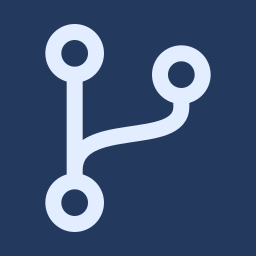
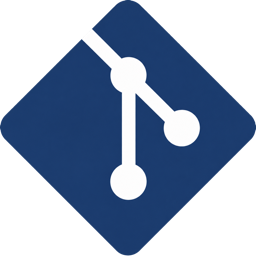
chore: prepare Git Native UI for publication

diff --git a/scripts/package/verify.ts b/scripts/package/verify.ts
@@ -143,18 +143,18 @@ export function verifyReleaseManifest(manifest: unknown): void {
     manifest.repository,
     {
       type: 'git',
-      url: 'https://github.com/andreymyssak/git-native-ui.git',
+      url: 'https://github.com/andreymyssak/vscode-git-native-ui.git',
     },
     'Release repository must identify the intended personal source repository',
   );
   assert.equal(
     manifest.homepage,
-    'https://github.com/andreymyssak/git-native-ui#readme',
+    'https://github.com/andreymyssak/vscode-git-native-ui#readme',
     'Release homepage must link to project documentation',
   );
   assert.equal(
     isRecord(manifest.bugs) ? manifest.bugs.url : undefined,
-    'https://github.com/andreymyssak/git-native-ui/issues',
+    'https://github.com/andreymyssak/vscode-git-native-ui/issues',
     'Release bugs URL must identify the issue tracker',
   );
   assert.ok(

diff --git a/test/vscode/editors.test.ts b/test/vscode/editors.test.ts
@@ -55,7 +55,7 @@ describe('historical changes', () => {
       const id = vscode.Uri.file(fixture.root).toString();
 
       await vscode.extensions
-        .getExtension('local-git-native-ui.git-native-ui')!
+        .getExtension('git-native-ui.git-native-ui')!
         .activate();
       const access = await getGitApi();
       const parent = (await fixture.runGit(['rev-parse', 'HEAD'])).trim();

diff --git a/test/vscode/file-icons.test.ts b/test/vscode/file-icons.test.ts
@@ -23,7 +23,7 @@ describe('installed file icon themes', () => {
     const previousIcon = configuration.inspect('iconTheme')?.globalValue;
     const previousColor = configuration.inspect('colorTheme')?.globalValue;
     const extension = vscode.extensions.getExtension(
-      'local-git-native-ui.git-native-ui',
+      'git-native-ui.git-native-ui',
     );
 
     try {

diff --git a/test/vscode/package.test.ts b/test/vscode/package.test.ts
@@ -12,7 +12,7 @@ import { createFixture } from '../fixtures/repository';
 describe('private package', () => {
   it('registered extension activates on the tested VS Code runtime', async () => {
     const extension = vscode.extensions.getExtension(
-      'local-git-native-ui.git-native-ui',
+      'git-native-ui.git-native-ui',
     );
 
     assert.ok(extension);

diff --git a/scripts/test/installed-actions.ts b/scripts/test/installed-actions.ts
@@ -61,7 +61,7 @@ export async function runInstalledActions({
       engines: { vscode: '^1.140.0' },
       main: './extension.cjs',
       activationEvents: ['onStartupFinished'],
-      extensionDependencies: ['local-git-native-ui.git-native-ui'],
+      extensionDependencies: ['git-native-ui.git-native-ui'],
     }),
   );
   writeFileSync(

diff --git a/test/vscode/activation.test.ts b/test/vscode/activation.test.ts
@@ -23,7 +23,7 @@ describe('native capabilities', () => {
     for (const root of roots)
       await access.api.openRepository(vscode.Uri.file(root.root));
     const extension = vscode.extensions.getExtension(
-      'local-git-native-ui.git-native-ui',
+      'git-native-ui.git-native-ui',
     );
 
     assert.ok(extension);

diff --git a/test/vscode/commit-menu.test.ts b/test/vscode/commit-menu.test.ts
@@ -31,7 +31,7 @@ describe('native squash menu workflow', () => {
         vscode.ConfigurationTarget.Global,
       );
       const extension = vscode.extensions.getExtension(
-        'local-git-native-ui.git-native-ui',
+        'git-native-ui.git-native-ui',
       );
 
       assert.ok(extension);

diff --git a/README.md b/README.md
@@ -2,9 +2,13 @@
 
 [![MIT license](https://img.shields.io/badge/license-MIT-blue.svg)](LICENSE.txt)
 
-Browse branches, commit history, changed files, and worktrees together in VS Code. Git Native UI puts them in a bottom panel, with comparisons opening in VS Code's native diff editors.
+**Finally, a proper Git UI for VS Code.**
 
-Inspired by the Git tool window in JetBrains' [IntelliJ IDEA Community Edition](https://github.com/JetBrains/intellij-community), with VS Code's graph, controls, and themes.
+Git Native UI is a free, focused alternative to [GitLens](https://github.com/gitkraken/vscode-gitlens) for browsing history, managing branches and worktrees, and inspecting changes. It uses familiar VS Code styling, follows your chosen theme, and opens file comparisons in VS Code's native diff editor.
+
+Inspired by the Git tool window in JetBrains' [IntelliJ IDEA Community Edition](https://github.com/JetBrains/intellij-community).
+
+**Completely free and open source. No subscriptions or paid tiers.**
 
 ![Git Native UI in VS Code's Dark Modern theme, showing branches, a commit graph, and changed files](assets/readme/log-dark.png)
 
@@ -28,21 +32,11 @@ The panel follows your VS Code theme. Here it is in Light Modern:
 
 ![Git Native UI in VS Code's Light Modern theme](assets/readme/log-light.png)
 
-## Install
-
-The first public release is in preparation. **Marketplace listing: coming soon.**
-
-<!-- Replace the Marketplace placeholder with the final listing URL after publication.
-Add Marketplace version and install-count badges using the final publisher ID.
-Until then, avoid badges that imply a published release or an install count. -->
-
-For now, [build a VSIX from source](docs/development.md#build-and-run), then run **Extensions: Install from VSIX...** in VS Code.
+## Get started
 
 1. Open a local Git repository in VS Code.
 2. Run **View: Open View...** from the Command Palette and choose **Git Native UI**.
 3. Select a commit, or double-click a branch to browse its history. Browsing a branch keeps your checkout unchanged.
-
-Requires VS Code 1.140.0 or newer, Git, an enabled built-in Git extension, and workspace trust for Git operations.
 
 ## Your repositories stay yours
 
@@ -50,7 +44,7 @@ Git Native UI has no account, cloud backend, or analytics service. Fetch connect
 
 ## Feedback and contributions
 
-[Report a bug or suggest a feature](https://github.com/andreymyssak/git-native-ui/issues). To contribute, see [CONTRIBUTING.md](CONTRIBUTING.md).
+[Report a bug or suggest a feature](https://github.com/andreymyssak/vscode-git-native-ui/issues). To contribute, see [CONTRIBUTING.md](CONTRIBUTING.md).
 
 For security vulnerabilities, follow the private reporting instructions in [SECURITY.md](SECURITY.md).
 

diff --git a/SECURITY.md b/SECURITY.md
@@ -2,9 +2,9 @@
 
 ## Report a vulnerability privately
 
-Open the repository's [security page](https://github.com/andreymyssak/git-native-ui/security) and choose **Advisories → Report a vulnerability** when private reporting is enabled. GitHub sends the report privately to the maintainers.
+Open the repository's [security page](https://github.com/andreymyssak/vscode-git-native-ui/security) and choose **Advisories → Report a vulnerability** when private reporting is enabled. GitHub sends the report privately to the maintainers.
 
-If that button is unavailable, [open an issue](https://github.com/andreymyssak/git-native-ui/issues) asking for a private security contact. Include only that request. Wait for a private channel before sending vulnerability details.
+If that button is unavailable, [open an issue](https://github.com/andreymyssak/vscode-git-native-ui/issues) asking for a private security contact. Include only that request. Wait for a private channel before sending vulnerability details.
 
 Keep exploit details and proposed security fixes out of public issues and pull requests until disclosure is coordinated with the maintainers. Ordinary bugs and feature requests can use public issues and pull requests.
 

diff --git a/THIRD_PARTY_NOTICES.md b/THIRD_PARTY_NOTICES.md
@@ -17,6 +17,12 @@ VSCode Elements is a community project. File theme icons and fonts are supplied 
 
 Both complete license texts are included in `dist/UI_LICENSES.txt`.
 
+## Git logo
+
+The icons in `assets/git-native-ui.svg` and `assets/marketplace-icon.png` are adapted from Git Logo by Jason Long, available from [Git's logo downloads](https://git-scm.com/community/logos), under [Creative Commons Attribution 3.0 Unported](https://creativecommons.org/licenses/by/3.0/).
+
+The Marketplace icon uses a navy diamond and white branch symbol. The panel icon uses the current VS Code theme color. Git and the Git logo are trademarks of Software Freedom Conservancy, Inc.
+
 ## Copied VS Code code
 
 The portable Git graph, graph test assertions, and public Git API structural declarations derive from [Microsoft Visual Studio Code](https://github.com/microsoft/vscode) under the MIT license below. Source paths, hashes, adaptations, and adopted revisions are recorded in [the source manifest](upstream/vscode/manifest.json).

diff --git a/CONTRIBUTING.md b/CONTRIBUTING.md
@@ -1,6 +1,6 @@
 # Contributing
 
-Use [issues](https://github.com/andreymyssak/git-native-ui/issues) for bugs and feature requests. For vulnerabilities, follow the private reporting instructions in [SECURITY.md](SECURITY.md).
+Use [issues](https://github.com/andreymyssak/vscode-git-native-ui/issues) for bugs and feature requests. For vulnerabilities, follow the private reporting instructions in [SECURITY.md](SECURITY.md).
 
 ## Make a change
 
